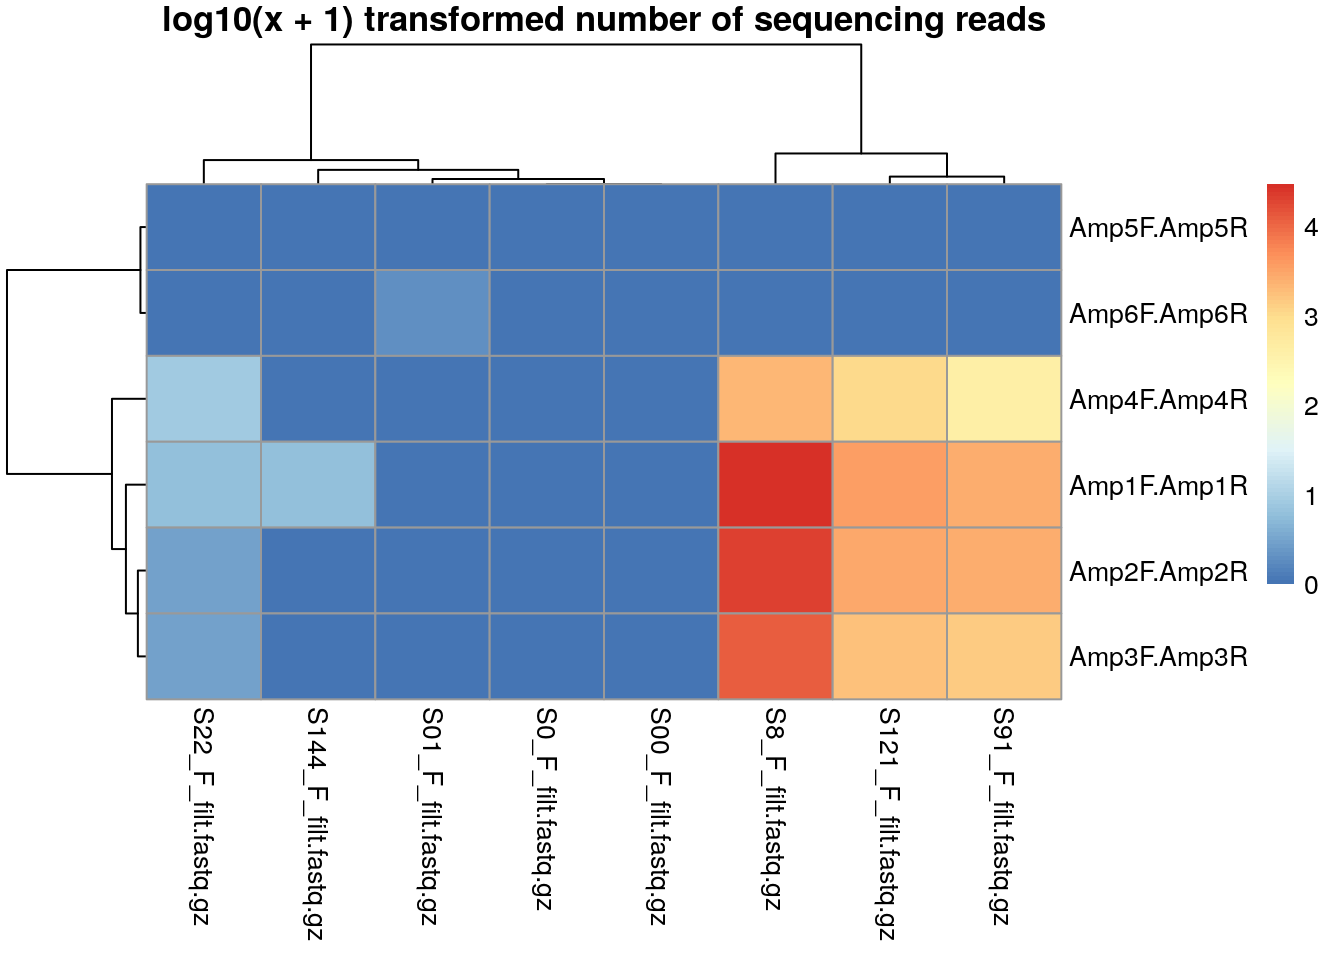
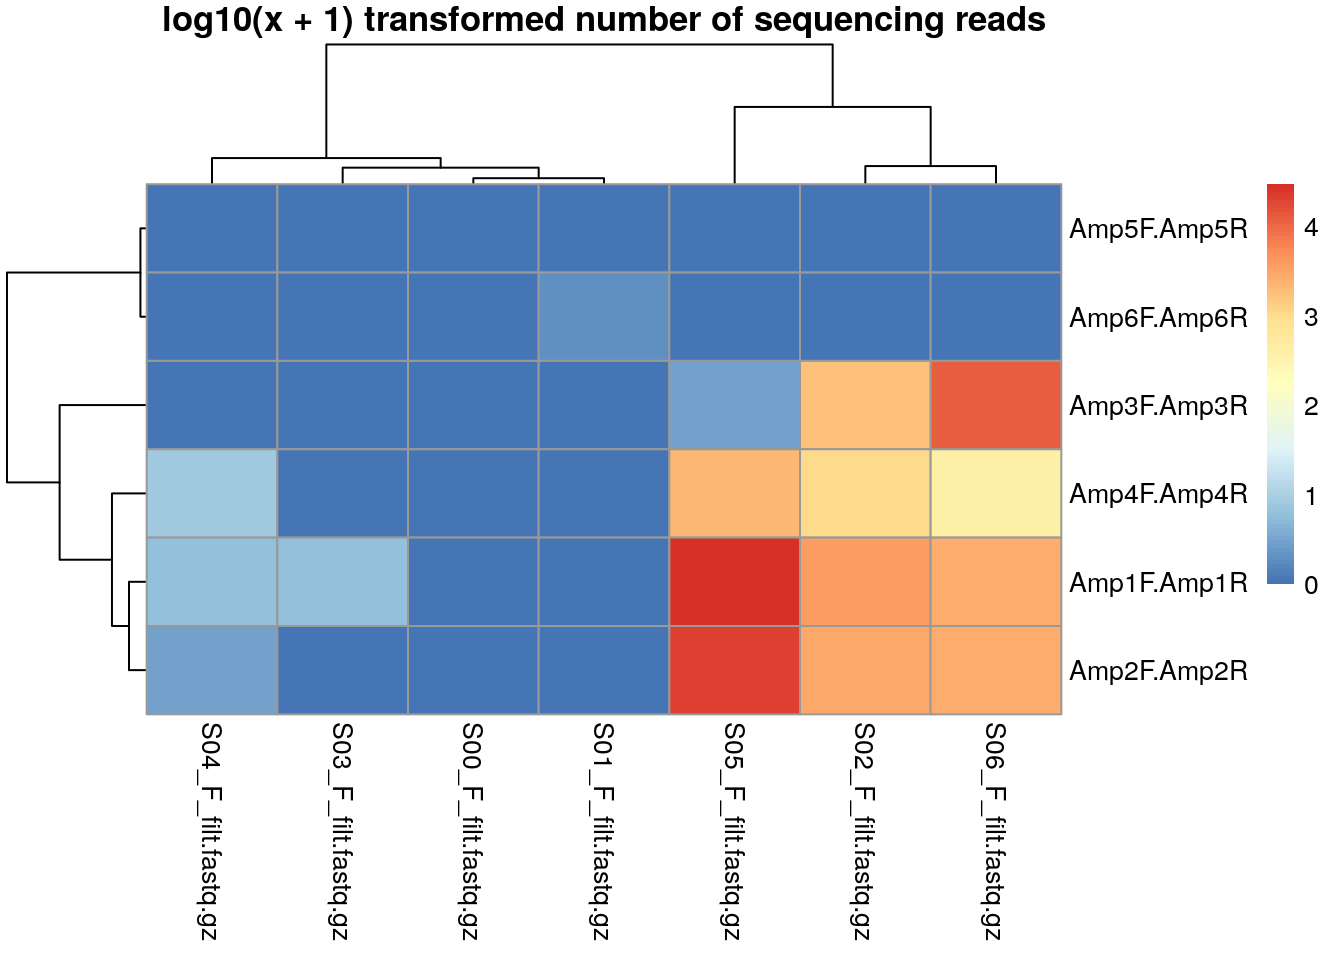
Vignette update with smaller data

diff --git a/docs/articles/MultiAmplicon-small-example.html b/docs/articles/MultiAmplicon-small-example.html
@@ -65,7 +65,7 @@
       <h1>Multi Amplicon - a small example</h1>
                         <h4 class="author">Emanuel Heitlinger</h4>
             
-            <h4 class="date">2018-04-04</h4>
+            <h4 class="date">2018-04-05</h4>
           </div>
 
     
@@ -110,12 +110,7 @@ MA &lt;-<span class="st"> </span><span class="kw"><a href="../reference/MultiAmp
 <p>Based on the primer sequences we can now sort the sequences into amplicons. This is done by the function <code>sortAmplicons</code>, which updates the MultiAmplicon object with the sorted amplicons.</p>
 <p>For this small example dataset we can look at the resuling <code>rawCounts</code> i.e. the number of sequences for each of the fully stratified amplicon x sample matrix.</p>
 <div class="sourceCode"><pre class="sourceCode r"><code class="sourceCode r">MA1 &lt;-<span class="st"> </span><span class="kw"><a href="../reference/sortAmplicons.html">sortAmplicons</a></span>(MA)
-<span class="co">#&gt; using existing directory  /tmp/RtmpWgTP1D and adding specific prefixes to avoid problems when running code twice </span>
-<span class="co">#&gt; </span>
-<span class="co">#&gt;  finished  sorting 0 sequencing reads for S0_F_filt.fastq.gz in </span>
-<span class="co">#&gt;   /usr/local/lib/R/site-library/MultiAmplicon/extdata/fastq/S0_F_filt.fastq.gz  and </span>
-<span class="co">#&gt;   /usr/local/lib/R/site-library/MultiAmplicon/extdata/fastq/S0_R_filt.fastq.gz </span>
-<span class="co">#&gt;   into  0 amplicons </span>
+<span class="co">#&gt; using existing directory  /tmp/RtmpItzhEn and adding specific prefixes to avoid problems when running code twice </span>
 <span class="co">#&gt; </span>
 <span class="co">#&gt;  finished  sorting 0 sequencing reads for S00_F_filt.fastq.gz in </span>
 <span class="co">#&gt;   /usr/local/lib/R/site-library/MultiAmplicon/extdata/fastq/S00_F_filt.fastq.gz  and </span>
@@ -127,47 +122,45 @@ MA &lt;-<span class="st"> </span><span class="kw"><a href="../reference/MultiAmp
 <span class="co">#&gt;   /usr/local/lib/R/site-library/MultiAmplicon/extdata/fastq/S01_R_filt.fastq.gz </span>
 <span class="co">#&gt;   into  1 amplicons </span>
 <span class="co">#&gt; </span>
-<span class="co">#&gt;  finished  sorting 9348 sequencing reads for S121_F_filt.fastq.gz in </span>
-<span class="co">#&gt;   /usr/local/lib/R/site-library/MultiAmplicon/extdata/fastq/S121_F_filt.fastq.gz  and </span>
-<span class="co">#&gt;   /usr/local/lib/R/site-library/MultiAmplicon/extdata/fastq/S121_R_filt.fastq.gz </span>
+<span class="co">#&gt;  finished  sorting 9348 sequencing reads for S02_F_filt.fastq.gz in </span>
+<span class="co">#&gt;   /usr/local/lib/R/site-library/MultiAmplicon/extdata/fastq/S02_F_filt.fastq.gz  and </span>
+<span class="co">#&gt;   /usr/local/lib/R/site-library/MultiAmplicon/extdata/fastq/S02_R_filt.fastq.gz </span>
 <span class="co">#&gt;   into  4 amplicons </span>
 <span class="co">#&gt; </span>
-<span class="co">#&gt;  finished  sorting 5 sequencing reads for S144_F_filt.fastq.gz in </span>
-<span class="co">#&gt;   /usr/local/lib/R/site-library/MultiAmplicon/extdata/fastq/S144_F_filt.fastq.gz  and </span>
-<span class="co">#&gt;   /usr/local/lib/R/site-library/MultiAmplicon/extdata/fastq/S144_R_filt.fastq.gz </span>
+<span class="co">#&gt;  finished  sorting 5 sequencing reads for S03_F_filt.fastq.gz in </span>
+<span class="co">#&gt;   /usr/local/lib/R/site-library/MultiAmplicon/extdata/fastq/S03_F_filt.fastq.gz  and </span>
+<span class="co">#&gt;   /usr/local/lib/R/site-library/MultiAmplicon/extdata/fastq/S03_R_filt.fastq.gz </span>
 <span class="co">#&gt;   into  1 amplicons </span>
 <span class="co">#&gt; </span>
-<span class="co">#&gt;  finished  sorting 16 sequencing reads for S22_F_filt.fastq.gz in </span>
-<span class="co">#&gt;   /usr/local/lib/R/site-library/MultiAmplicon/extdata/fastq/S22_F_filt.fastq.gz  and </span>
-<span class="co">#&gt;   /usr/local/lib/R/site-library/MultiAmplicon/extdata/fastq/S22_R_filt.fastq.gz </span>
+<span class="co">#&gt;  finished  sorting 14 sequencing reads for S04_F_filt.fastq.gz in </span>
+<span class="co">#&gt;   /usr/local/lib/R/site-library/MultiAmplicon/extdata/fastq/S04_F_filt.fastq.gz  and </span>
+<span class="co">#&gt;   /usr/local/lib/R/site-library/MultiAmplicon/extdata/fastq/S04_R_filt.fastq.gz </span>
+<span class="co">#&gt;   into  3 amplicons </span>
+<span class="co">#&gt; </span>
+<span class="co">#&gt;  finished  sorting 51779 sequencing reads for S05_F_filt.fastq.gz in </span>
+<span class="co">#&gt;   /usr/local/lib/R/site-library/MultiAmplicon/extdata/fastq/S05_F_filt.fastq.gz  and </span>
+<span class="co">#&gt;   /usr/local/lib/R/site-library/MultiAmplicon/extdata/fastq/S05_R_filt.fastq.gz </span>
 <span class="co">#&gt;   into  4 amplicons </span>
 <span class="co">#&gt; </span>
-<span class="co">#&gt;  finished  sorting 63448 sequencing reads for S8_F_filt.fastq.gz in </span>
-<span class="co">#&gt;   /usr/local/lib/R/site-library/MultiAmplicon/extdata/fastq/S8_F_filt.fastq.gz  and </span>
-<span class="co">#&gt;   /usr/local/lib/R/site-library/MultiAmplicon/extdata/fastq/S8_R_filt.fastq.gz </span>
-<span class="co">#&gt;   into  4 amplicons </span>
-<span class="co">#&gt; </span>
-<span class="co">#&gt;  finished  sorting 7108 sequencing reads for S91_F_filt.fastq.gz in </span>
-<span class="co">#&gt;   /usr/local/lib/R/site-library/MultiAmplicon/extdata/fastq/S91_F_filt.fastq.gz  and </span>
-<span class="co">#&gt;   /usr/local/lib/R/site-library/MultiAmplicon/extdata/fastq/S91_R_filt.fastq.gz </span>
+<span class="co">#&gt;  finished  sorting 17358 sequencing reads for S06_F_filt.fastq.gz in </span>
+<span class="co">#&gt;   /usr/local/lib/R/site-library/MultiAmplicon/extdata/fastq/S06_F_filt.fastq.gz  and </span>
+<span class="co">#&gt;   /usr/local/lib/R/site-library/MultiAmplicon/extdata/fastq/S06_R_filt.fastq.gz </span>
 <span class="co">#&gt;   into  4 amplicons</span></code></pre></div>
 <div class="sourceCode"><pre class="sourceCode r"><code class="sourceCode r">knitr::<span class="kw">kable</span>(<span class="kw"><a href="../reference/MultiAmplicon-class.html">rawCounts</a></span>(MA1))</code></pre></div>
 <table class="table">
 <thead><tr class="header">
 <th></th>
-<th align="right">S0_F_filt.fastq.gz</th>
 <th align="right">S00_F_filt.fastq.gz</th>
 <th align="right">S01_F_filt.fastq.gz</th>
-<th align="right">S121_F_filt.fastq.gz</th>
-<th align="right">S144_F_filt.fastq.gz</th>
-<th align="right">S22_F_filt.fastq.gz</th>
-<th align="right">S8_F_filt.fastq.gz</th>
-<th align="right">S91_F_filt.fastq.gz</th>
+<th align="right">S02_F_filt.fastq.gz</th>
+<th align="right">S03_F_filt.fastq.gz</th>
+<th align="right">S04_F_filt.fastq.gz</th>
+<th align="right">S05_F_filt.fastq.gz</th>
+<th align="right">S06_F_filt.fastq.gz</th>
 </tr></thead>
 <tbody>
 <tr class="odd">
 <td>Amp1F.Amp1R</td>
-<td align="right">0</td>
 <td align="right">0</td>
 <td align="right">0</td>
 <td align="right">3495</td>
@@ -180,7 +173,6 @@ MA &lt;-<span class="st"> </span><span class="kw"><a href="../reference/MultiAmp
 <td>Amp2F.Amp2R</td>
 <td align="right">0</td>
 <td align="right">0</td>
-<td align="right">0</td>
 <td align="right">2949</td>
 <td align="right">0</td>
 <td align="right">2</td>
@@ -191,16 +183,14 @@ MA &lt;-<span class="st"> </span><span class="kw"><a href="../reference/MultiAmp
 <td>Amp3F.Amp3R</td>
 <td align="right">0</td>
 <td align="right">0</td>
-<td align="right">0</td>
 <td align="right">1817</td>
+<td align="right">0</td>
 <td align="right">0</td>
 <td align="right">2</td>
 <td align="right">11671</td>
-<td align="right">1421</td>
 </tr>
 <tr class="even">
 <td>Amp4F.Amp4R</td>
-<td align="right">0</td>
 <td align="right">0</td>
 <td align="right">0</td>
 <td align="right">1087</td>
@@ -218,11 +208,9 @@ MA &lt;-<span class="st"> </span><span class="kw"><a href="../reference/MultiAmp
 <td align="right">0</td>
 <td align="right">0</td>
 <td align="right">0</td>
-<td align="right">0</td>
 </tr>
 <tr class="even">
 <td>Amp6F.Amp6R</td>
-<td align="right">0</td>
 <td align="right">0</td>
 <td align="right">1</td>
 <td align="right">0</td>
@@ -236,12 +224,9 @@ MA &lt;-<span class="st"> </span><span class="kw"><a href="../reference/MultiAmp
 <p>Now we can plot the result. The function plotAmpliconNumbers allows us also to store clustering information (see ). Which can afterwards be used to filter data.</p>
 <div class="sourceCode"><pre class="sourceCode r"><code class="sourceCode r">clusters &lt;-<span class="st"> </span><span class="kw"><a href="../reference/plotAmpliconNumbers.html">plotAmpliconNumbers</a></span>(MA1)</code></pre></div>
 <p><img src="MultiAmplicon-small-example_files/figure-html/plotAmpliconNumbers-1.png" width="672"></p>
-<p>We can use this clustering information to subset our MultiAmplicon object.</p>
-<p>You can enable figure captions by <code>fig_caption: yes</code> in YAML:</p>
-<pre><code>output:
-  rmarkdown::html_vignette:
-    fig_caption: yes</code></pre>
-<p>Then you can use the chunk option <code>fig.cap = "Your figure caption."</code> in <strong>knitr</strong>.</p>
+<p>We can use this clustering information now to subset our MultiAmplicon object.</p>
+<div class="sourceCode"><pre class="sourceCode r"><code class="sourceCode r">two.clusters.row &lt;-<span class="st"> </span><span class="kw">cutree</span>(clusters$tree_row, <span class="dt">k=</span><span class="dv">2</span>)
+two.clusters.col &lt;-<span class="st"> </span><span class="kw">cutree</span>(clusters$tree_col, <span class="dt">k=</span><span class="dv">2</span>)</code></pre></div>
 </div>
 </div>
 </div>
